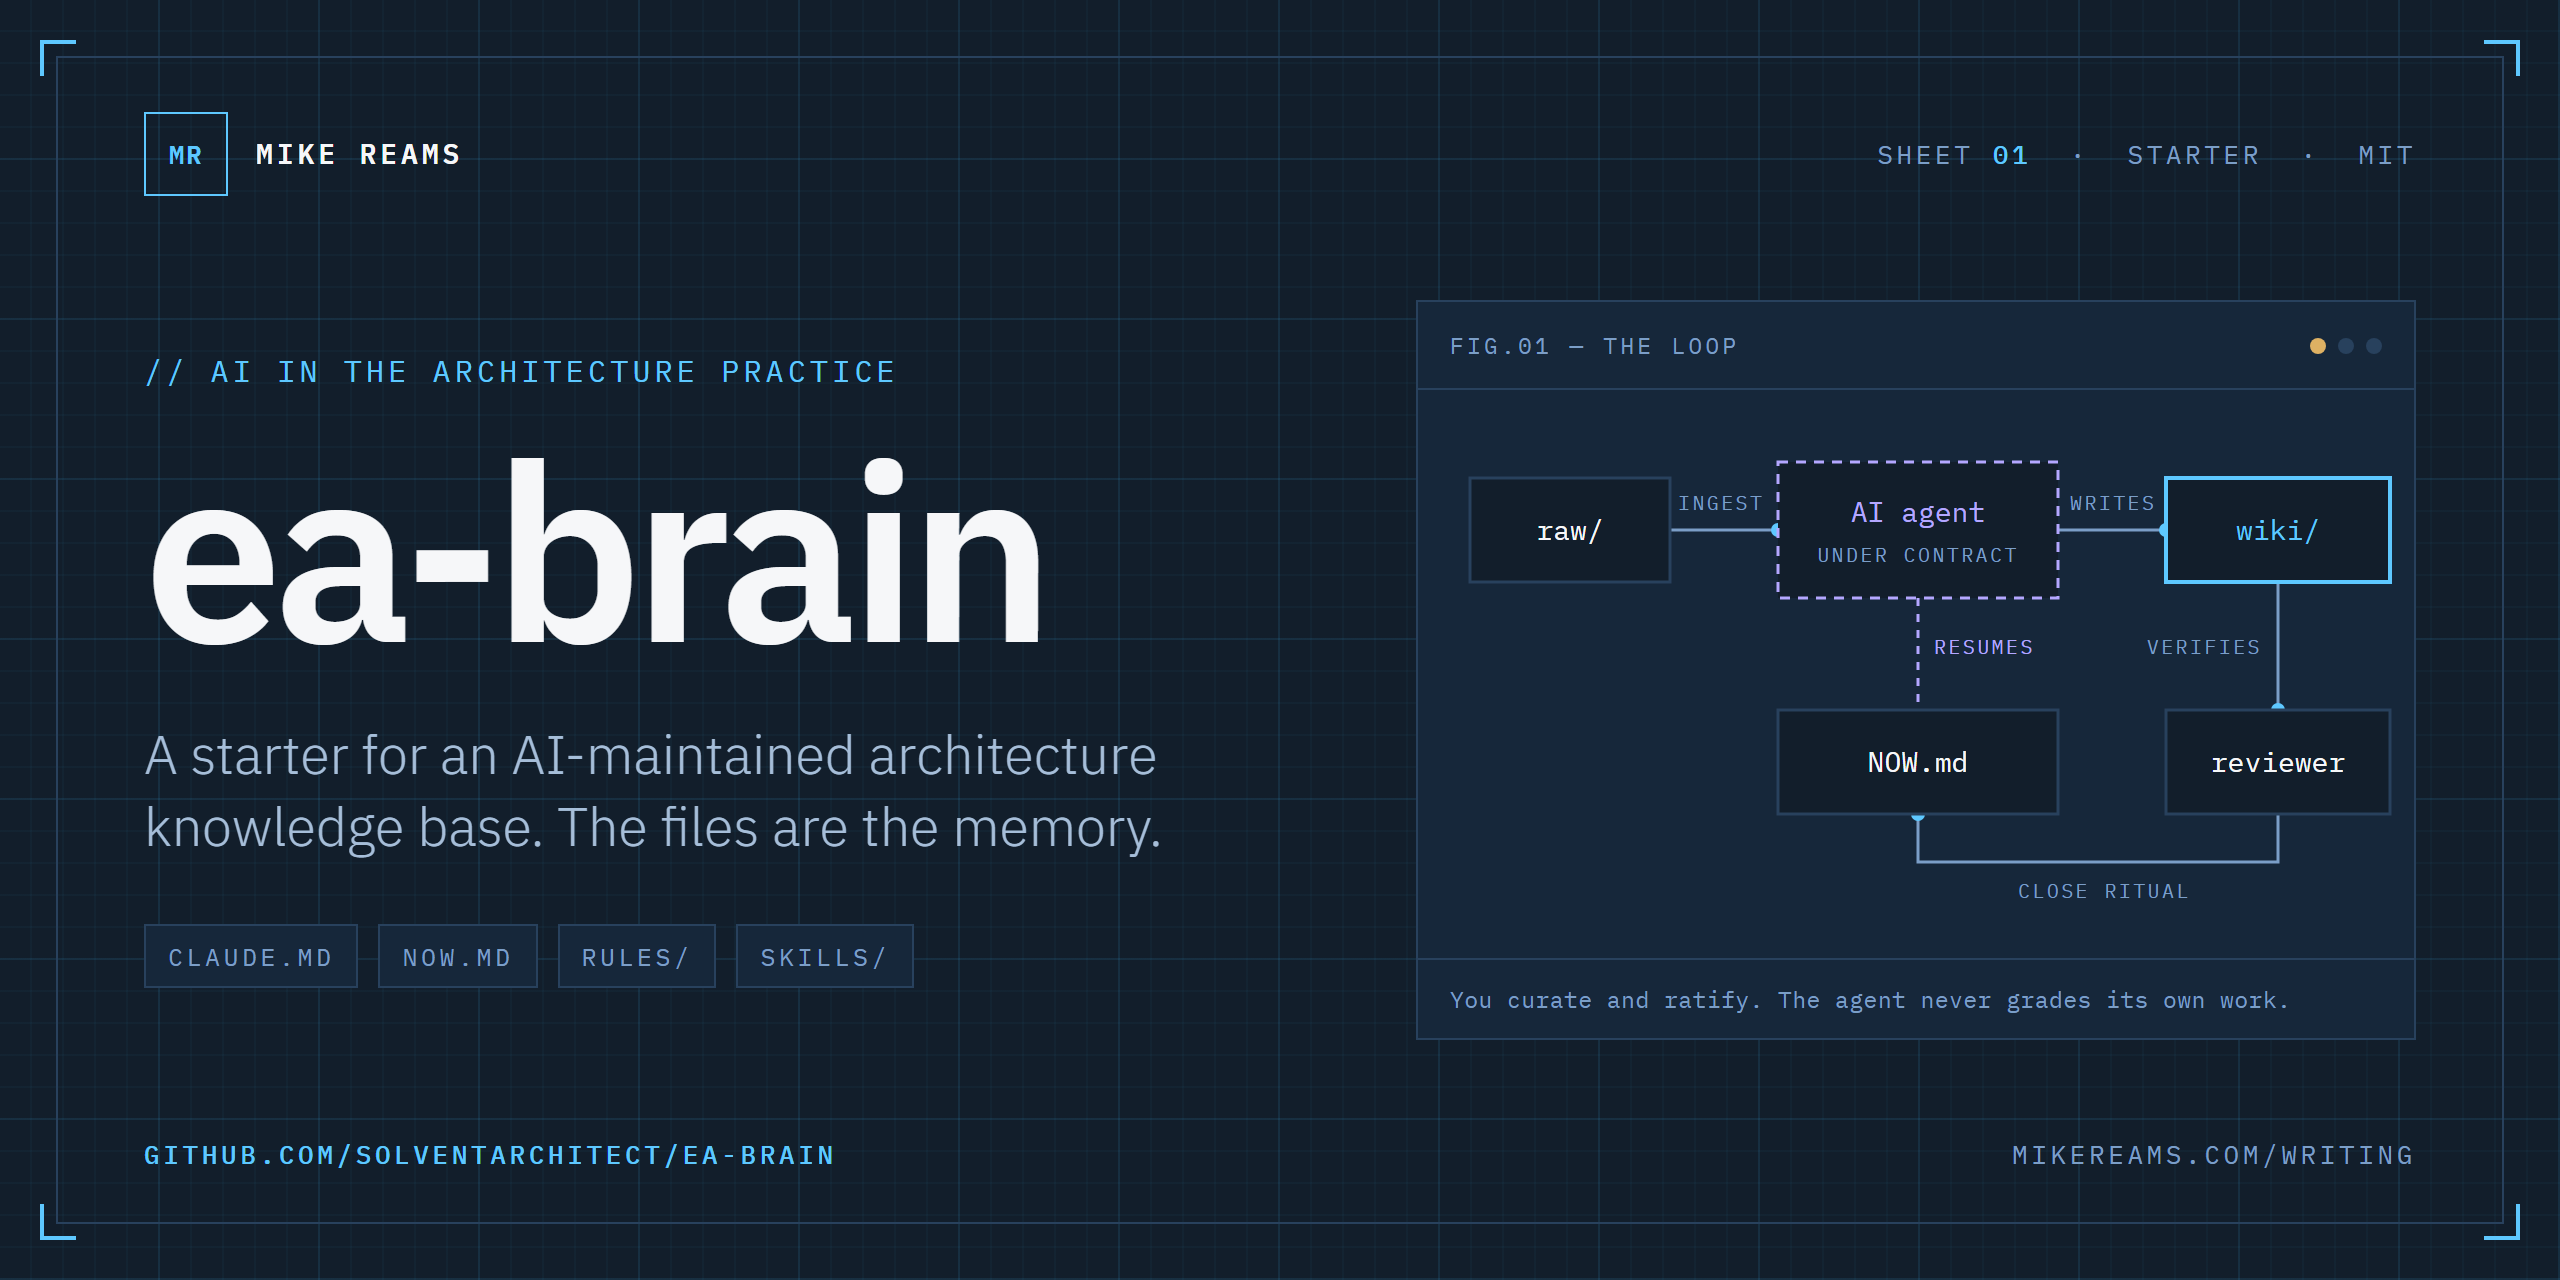
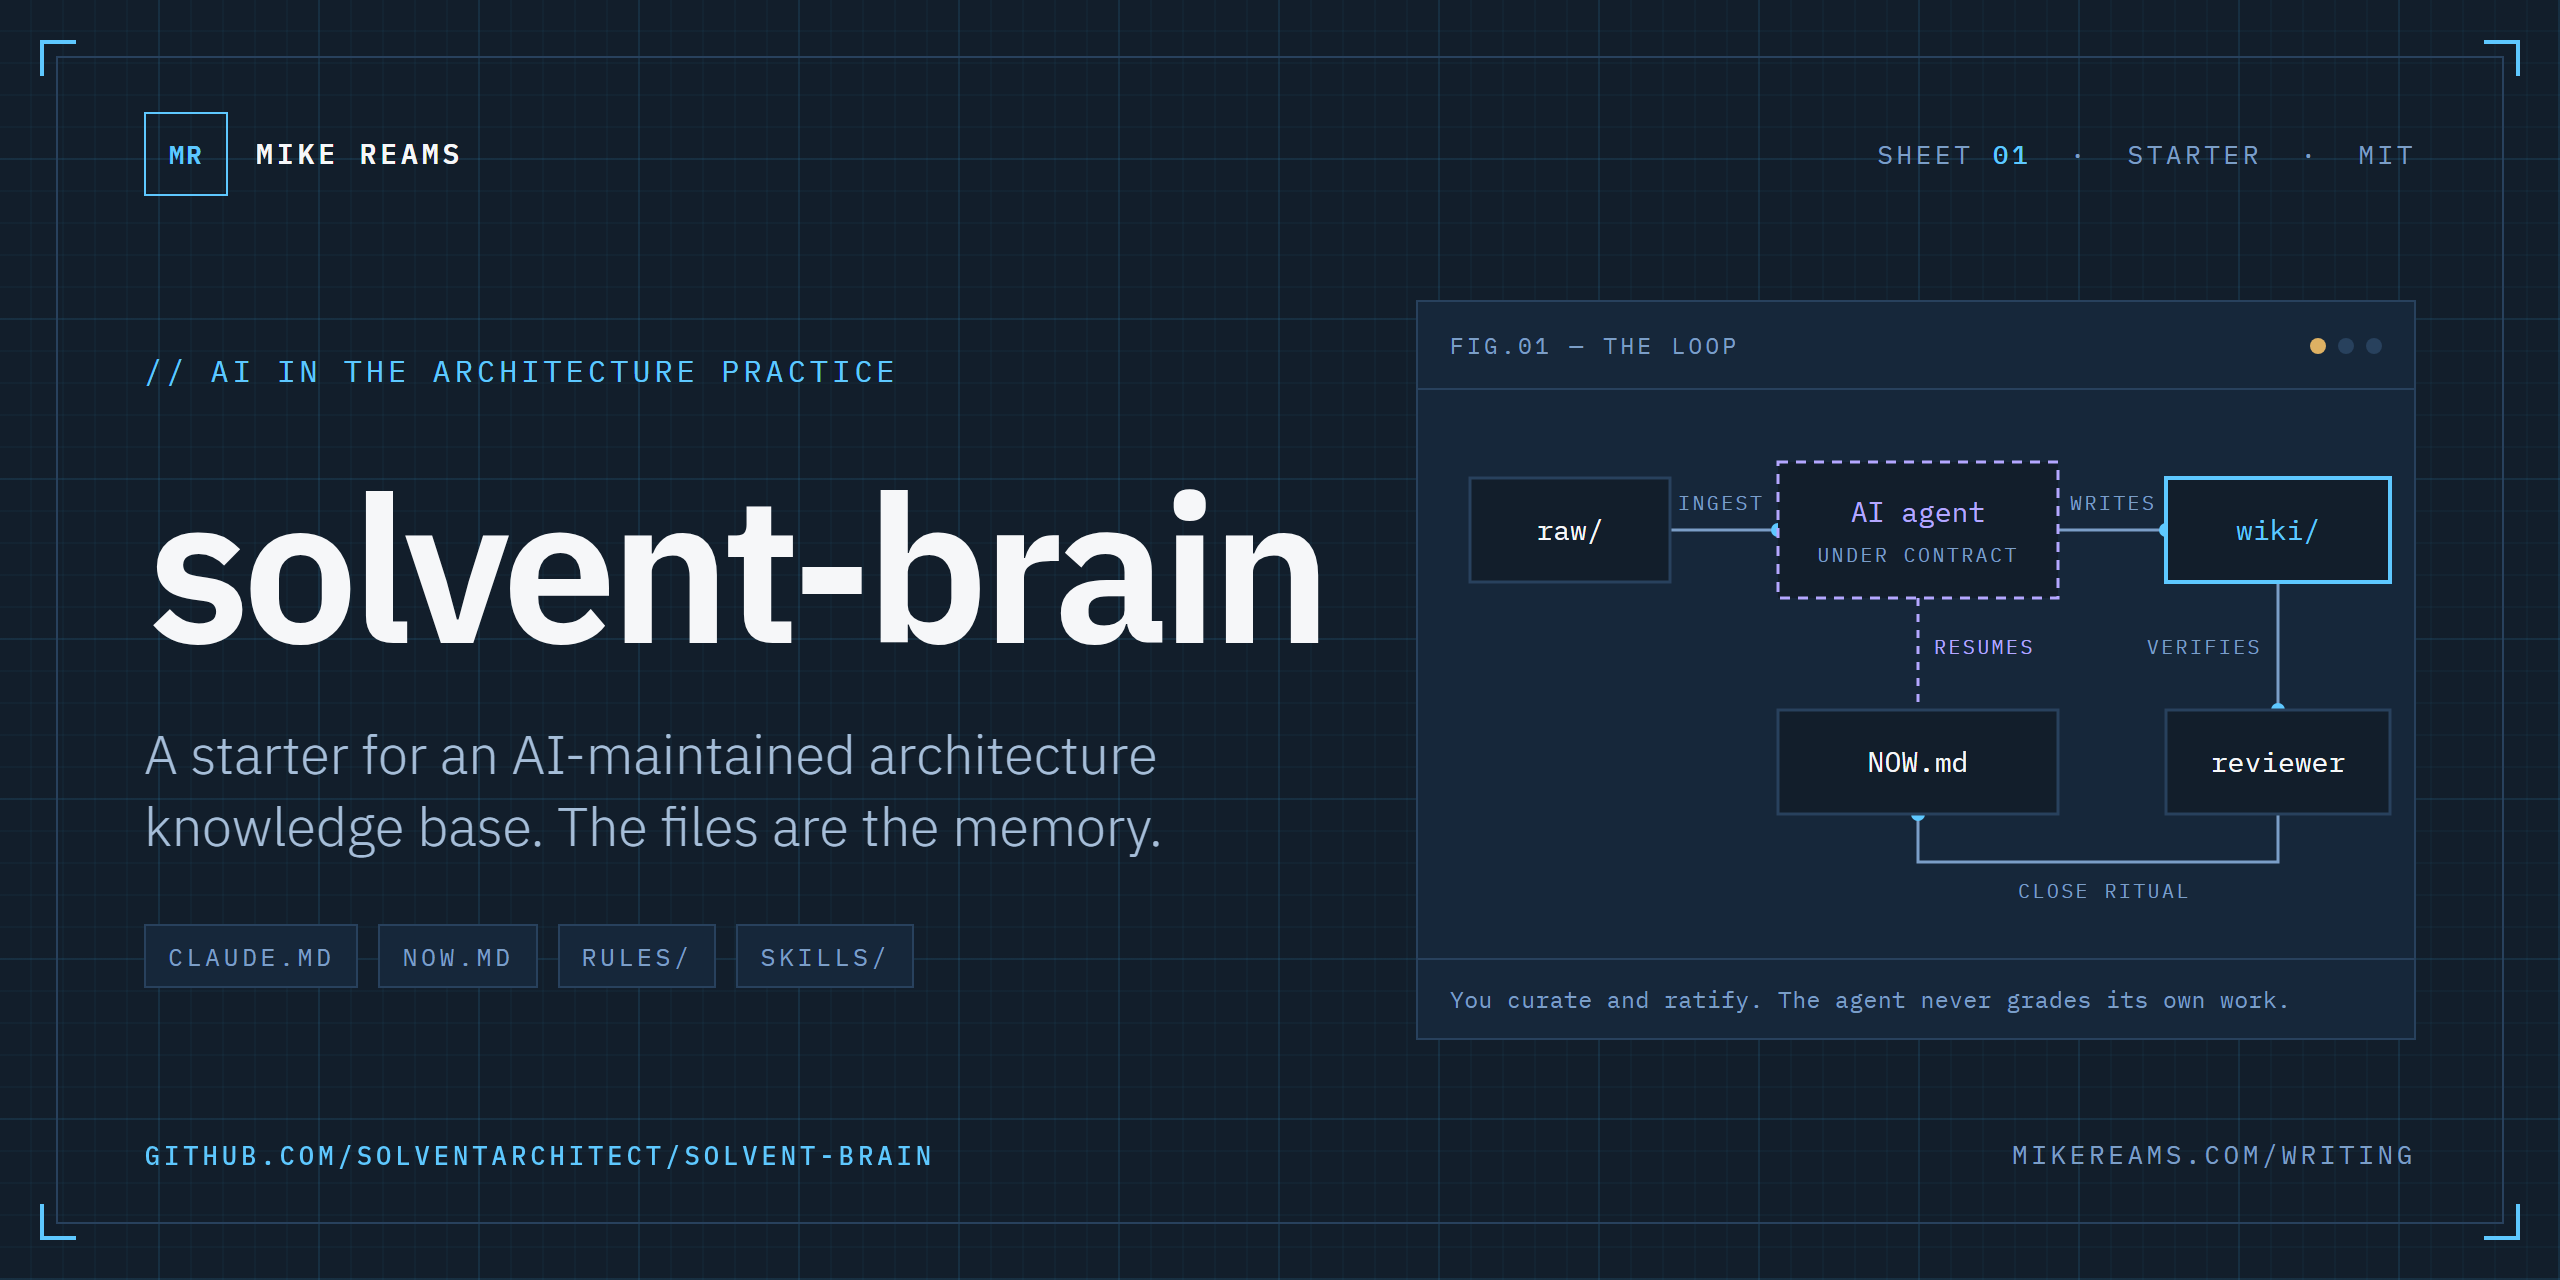
chore: rename ea-brain to solvent-brain
Renames the starter, its Claude Code plugin and skill (plugin 0.2.0) and
updates every link, including the write-up URL on mikereams.com. Banner and
social preview redrawn with the new name.

Claude-Session: https://claude.ai/code/session_01Abent9jvXwPAPZb1o8Vp7J

Changed region(s): [[0.0625, 0.3438, 0.5312, 0.5], [0.125, 0.875, 0.375, 0.9062], [0.0625, 0.875, 0.0938, 0.9062]]

diff --git a/README.md b/README.md
@@ -1,16 +1,16 @@
 <p align="center">
-  <a href="https://mikereams.com/writing/introducing-ea-brain-template">
+  <a href="https://mikereams.com/writing/introducing-solvent-brain-template">
     <picture>
       <source media="(prefers-color-scheme: dark)" srcset="assets/banner-dark.png">
       <source media="(prefers-color-scheme: light)" srcset="assets/banner-light.png">
-      <img alt="ea-brain: a starter for an AI-maintained architecture knowledge base. Fig.01 shows raw sources flowing to an AI agent working under contract, which writes the wiki; a reviewer verifies it and NOW.md carries state between sessions." src="assets/banner-dark.png" width="100%">
+      <img alt="solvent-brain: a starter for an AI-maintained architecture knowledge base. Fig.01 shows raw sources flowing to an AI agent working under contract, which writes the wiki; a reviewer verifies it and NOW.md carries state between sessions." src="assets/banner-dark.png" width="100%">
     </picture>
   </a>
 </p>
 
 <p align="center">
   <a href="LICENSE"><img alt="License: MIT" src="https://img.shields.io/badge/license-MIT-5ec8ff?style=flat-square&labelColor=121e2b"></a>
-  <a href="https://github.com/solventarchitect/ea-brain/generate"><img alt="Use this template" src="https://img.shields.io/badge/use_this-template-5ec8ff?style=flat-square&labelColor=121e2b"></a>
+  <a href="https://github.com/solventarchitect/solvent-brain/generate"><img alt="Use this template" src="https://img.shields.io/badge/use_this-template-5ec8ff?style=flat-square&labelColor=121e2b"></a>
   <a href="https://mikereams.com/writing"><img alt="Read the series" src="https://img.shields.io/badge/read_the-series-b4a7ff?style=flat-square&labelColor=121e2b"></a>
 </p>
 
@@ -22,7 +22,7 @@
 
 Architecture knowledge lives everywhere at once: decisions in slide decks, the application inventory in the CMDB, reasoning in people's heads. Every new question starts with an afternoon of digging, and every answer goes stale the moment it is written down somewhere else.
 
-ea-brain is the pattern that fixes that, reduced to files you can copy. Sources go into `raw/`. An AI agent reads them and writes a cross-linked wiki under a written operating contract. You curate, ask questions and ratify decisions. Nothing depends on a vendor, a database or a plugin: it is Markdown in a Git repository.
+solvent-brain is the pattern that fixes that, reduced to files you can copy. Sources go into `raw/`. An AI agent reads them and writes a cross-linked wiki under a written operating contract. You curate, ask questions and ratify decisions. Nothing depends on a vendor, a database or a plugin: it is Markdown in a Git repository.
 
 ## How it works
 
@@ -49,7 +49,7 @@ Five ideas carry the whole thing:
 
 ## Quick start
 
-1. Click **[Use this template](https://github.com/solventarchitect/ea-brain/generate)** (or clone the repo) to make your own copy.
+1. Click **[Use this template](https://github.com/solventarchitect/solvent-brain/generate)** (or clone the repo) to make your own copy.
 2. Open `CLAUDE.md`, replace `<team/practice>` with your practice's name, and change anything that does not fit.
 3. Drop one source into `raw/`: an export, meeting notes, a vendor notice.
 4. Open an agent session in the folder and ask it to ingest the source. It reads `CLAUDE.md`, then `wiki/NOW.md`, and writes pages under `wiki/`.
@@ -60,21 +60,21 @@ Five ideas carry the whole thing:
 
 ## Install as an agent skill
 
-Prefer to let your agent set it up? ea-brain also ships as a skill.
+Prefer to let your agent set it up? solvent-brain also ships as a skill.
 
 **Claude Code** (plugin marketplace):
 
 ```text
-/plugin marketplace add solventarchitect/ea-brain
-/plugin install ea-brain@solventarchitect
+/plugin marketplace add solventarchitect/solvent-brain
+/plugin install solvent-brain@solventarchitect
 ```
 
-Then, in the folder you want to use: *"Set up an ea-brain knowledge base here for &lt;your practice&gt;."* The skill
+Then, in the folder you want to use: *"Set up a solvent-brain knowledge base here for &lt;your practice&gt;."* The skill
 copies the starter into the folder (it never overwrites existing files), names the practice in `CLAUDE.md`, starts
 the log, and from then on handles boot, ingest, close and adding rules. It installs two skills:
-`ea-brain` and `skeptical-reviewer`.
+`solvent-brain` and `skeptical-reviewer`.
 
-**Other agents and Claude.ai:** copy [`plugin/ea-brain/skills/ea-brain/`](plugin/ea-brain/skills/ea-brain) into
+**Other agents and Claude.ai:** copy [`plugin/solvent-brain/skills/solvent-brain/`](plugin/solvent-brain/skills/solvent-brain) into
 your agent's skills folder, or zip that folder and upload it as a custom skill. The folder is self-contained: the
 starter files travel inside it, under `template/`.
 
@@ -85,7 +85,7 @@ starter files travel inside it, under `template/`.
 ## What's inside
 
 ```text
-ea-brain/
+solvent-brain/
 ├── CLAUDE.md            operating contract
 ├── wiki/
 │   ├── NOW.md           resume state
@@ -97,7 +97,7 @@ ea-brain/
 ├── agents/operator.md   the bounded operator
 ├── skills/              skeptical-reviewer, _template
 ├── examples/            disposition record, golden questions
-└── plugin/ea-brain/     the same starter, packaged as an agent skill
+└── plugin/solvent-brain/ the same starter, packaged as an agent skill
 ```
 
 Each file links to the post that explains why it exists:
@@ -149,7 +149,7 @@ Every file here comes from *AI in the Architecture Practice* and *Application Po
 5. [Two Tiers: Spend the Expensive Model Only on Judgment](https://mikereams.com/writing/two-tiers-spend-the-expensive-model-only-on-judgment)
 6. [Every App Needs Two Capabilities](https://mikereams.com/writing/every-app-needs-two-capabilities)
 7. [Pushed Is Not Deployed](https://mikereams.com/writing/pushed-is-not-deployed)
-8. [Introducing ea-brain](https://mikereams.com/writing/introducing-ea-brain-template)
+8. [Introducing solvent-brain](https://mikereams.com/writing/introducing-solvent-brain-template)
 9. [A Dry Run Is Not Permission](https://mikereams.com/writing/a-dry-run-is-not-permission)
 10. [Five ServiceNow API Calls That Return Success and Store Nothing](https://mikereams.com/writing/servicenow-api-calls-that-return-success-and-store-nothing)
 11. [You Don't Need a Bigger Model. You Need Better Retrieval.](https://mikereams.com/writing/better-retrieval-not-a-bigger-model)

diff --git a/plugin/solvent-brain/skills/solvent-brain/SKILL.md b/plugin/solvent-brain/skills/solvent-brain/SKILL.md
@@ -1,11 +1,11 @@
 ---
-name: ea-brain
-description: Set up and run an AI-maintained architecture knowledge base (ea-brain). Use when asked to start a knowledge base or second brain for an architecture practice, to scaffold one into a folder, to resume or close a session in one, to ingest a source into it, or to add one of its rules.
+name: solvent-brain
+description: Set up and run an AI-maintained architecture knowledge base (solvent-brain). Use when asked to start a knowledge base or second brain for an architecture practice, to scaffold one into a folder, to resume or close a session in one, to ingest a source into it, or to add one of its rules.
 ---
 
-# ea-brain
+# solvent-brain
 
-An ea-brain is a folder of Markdown maintained by an agent under a written operating contract: sources go into
+A solvent-brain is a folder of Markdown maintained by an agent under a written operating contract: sources go into
 `raw/`, the agent writes a cross-linked wiki under `wiki/`, and a person curates, asks and ratifies. The files are
 the memory. The why behind every file is in the series at https://mikereams.com/writing.
 
@@ -40,7 +40,7 @@ If the current folder has no `CLAUDE.md` with a "Knowledge Base Operating Contra
 5. In `wiki/NOW.md`, clear the example rows (keep the headings and table headers) and set the "Last session" line
    to today's date with "Knowledge base created."
 6. Create `wiki/log/YYYY-MM.md` for the current month with the first entry:
-   `## [YYYY-MM-DD] setup | ea-brain scaffold` and one line listing the files created.
+   `## [YYYY-MM-DD] setup | solvent-brain scaffold` and one line listing the files created.
 7. If the folder is not a git repository, offer `git init` and a first commit; run it only if the user agrees.
 8. Tell the user the next step: put one source in `raw/` and ask you to ingest it.
 
